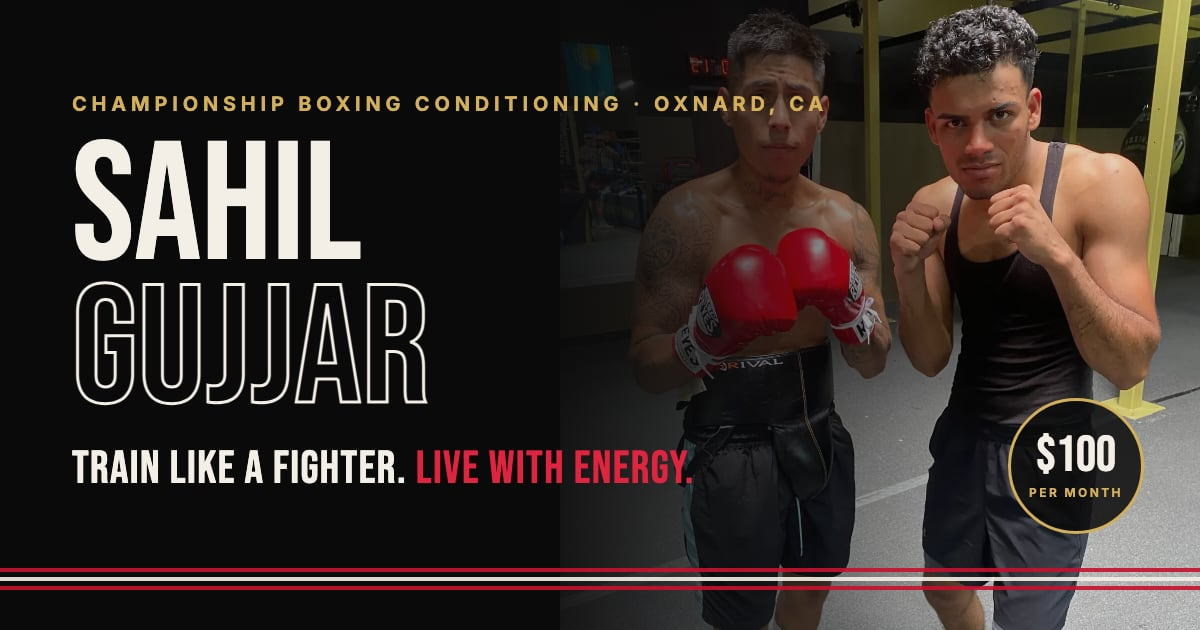
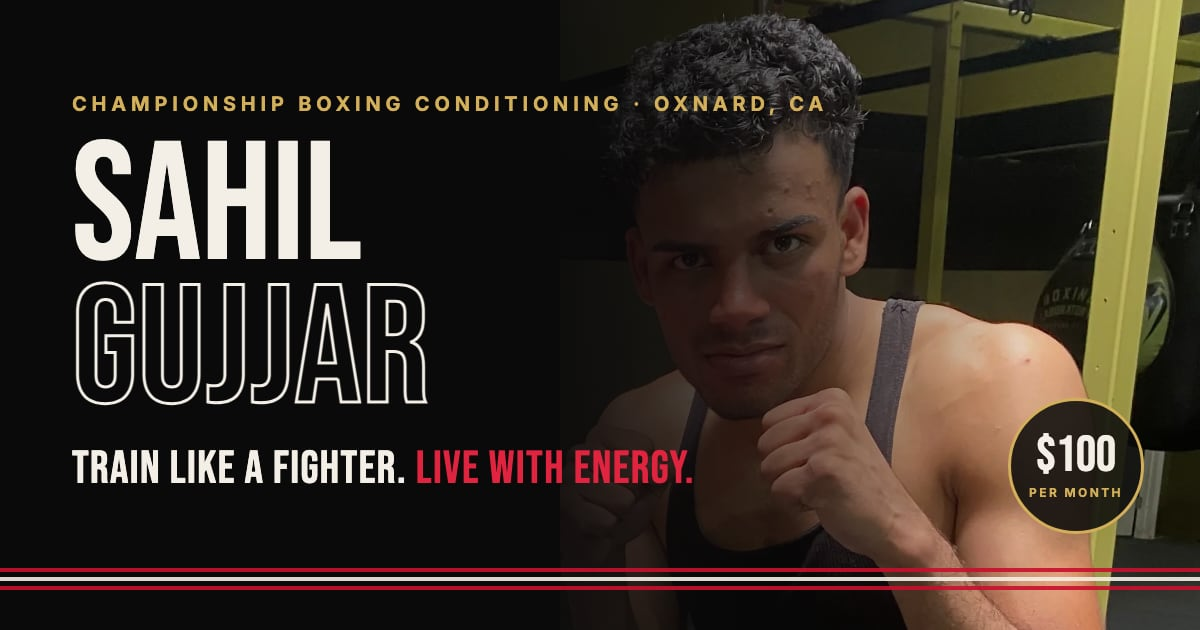
Hero background shows only Sahil
Crop the other fighter out of the hero photo: tall crop for phones, wide dark-canvas version for desktop, and regenerate the social share image from the same crop. Crops are reproducible via scripts/build-hero.mjs (part of npm run images).

diff --git a/site/index.html b/site/index.html
@@ -34,8 +34,11 @@
   <link rel="preconnect" href="https://fonts.gstatic.com" crossorigin>
   <link rel="stylesheet" href="https://fonts.googleapis.com/css2?family=Bebas+Neue&family=Inter:wght@400;500;600;700;800&display=swap">
 
-  <link rel="preload" as="image" type="image/webp"
-        imagesrcset="assets/img/sahil-guard-800.webp 800w, assets/img/sahil-guard-1200.webp 1200w, assets/img/sahil-guard-1600.webp 1600w, assets/img/sahil-guard-2000.webp 2000w"
+  <link rel="preload" as="image" type="image/webp" media="(max-width: 799px)"
+        imagesrcset="assets/img/hero-solo-480.webp 480w, assets/img/hero-solo-800.webp 800w, assets/img/hero-solo-1200.webp 1200w"
+        imagesizes="100vw" fetchpriority="high">
+  <link rel="preload" as="image" type="image/webp" media="(min-width: 800px)"
+        imagesrcset="assets/img/hero-wide-1200.webp 1200w, assets/img/hero-wide-1600.webp 1600w, assets/img/hero-wide-2400.webp 2400w"
         imagesizes="100vw" fetchpriority="high">
   <link rel="stylesheet" href="assets/css/styles.css">
   <script>document.documentElement.classList.add('js');</script>
@@ -118,13 +121,18 @@
     <!-- ============ HERO ============ -->
     <section class="hero" aria-labelledby="hero-title">
       <div class="hero__media">
-        <img
-          src="assets/img/sahil-guard-1200.webp"
-          srcset="assets/img/sahil-guard-480.webp 480w, assets/img/sahil-guard-800.webp 800w, assets/img/sahil-guard-1200.webp 1200w, assets/img/sahil-guard-1600.webp 1600w, assets/img/sahil-guard-2000.webp 2000w"
-          sizes="100vw"
-          width="1200" height="1600"
-          fetchpriority="high" decoding="async"
-          alt="Sahil Gujjar with his hands up in a fighting stance at the Boxing Laboratory gym, beside a fellow boxer in red gloves.">
+        <picture>
+          <source media="(min-width: 800px)" type="image/webp"
+                  srcset="assets/img/hero-wide-1200.webp 1200w, assets/img/hero-wide-1600.webp 1600w, assets/img/hero-wide-2400.webp 2400w"
+                  sizes="100vw" width="2400" height="1500">
+          <img
+            src="assets/img/hero-solo-800.webp"
+            srcset="assets/img/hero-solo-480.webp 480w, assets/img/hero-solo-800.webp 800w, assets/img/hero-solo-1200.webp 1200w"
+            sizes="100vw"
+            width="1200" height="2733"
+            fetchpriority="high" decoding="async"
+            alt="Sahil Gujjar with his hands up in a fighting stance at the Boxing Laboratory gym.">
+        </picture>
       </div>
       <div class="container hero__inner">
         <div class="hero__content">

diff --git a/site/assets/css/styles.css b/site/assets/css/styles.css
@@ -312,7 +312,7 @@ p { margin: 0 0 1.1em; }
 .hero__media img {
   width: 100%; height: 100%;
   object-fit: cover;
-  object-position: 74% 18%;
+  object-position: 50% 15%;
   filter: saturate(0.85) contrast(1.05);
 }
 /* Dark overlays keep all hero copy above ~5:1 even over the brightest pixels */
@@ -407,7 +407,7 @@ p { margin: 0 0 1.1em; }
       linear-gradient(0deg, var(--bg) 0%, transparent 25%),
       radial-gradient(80% 70% at 0% 100%, rgba(200,16,46,0.25), transparent 60%);
   }
-  .hero__media img { object-position: 80% 24%; }
+  .hero__media img { object-position: 100% 25%; }
   .hero__content { max-width: 680px; margin-left: 0; }
   .hero__inner { display: flex; justify-content: space-between; align-items: flex-end; }
   .hero__actions .btn { flex: 0 0 auto; }
